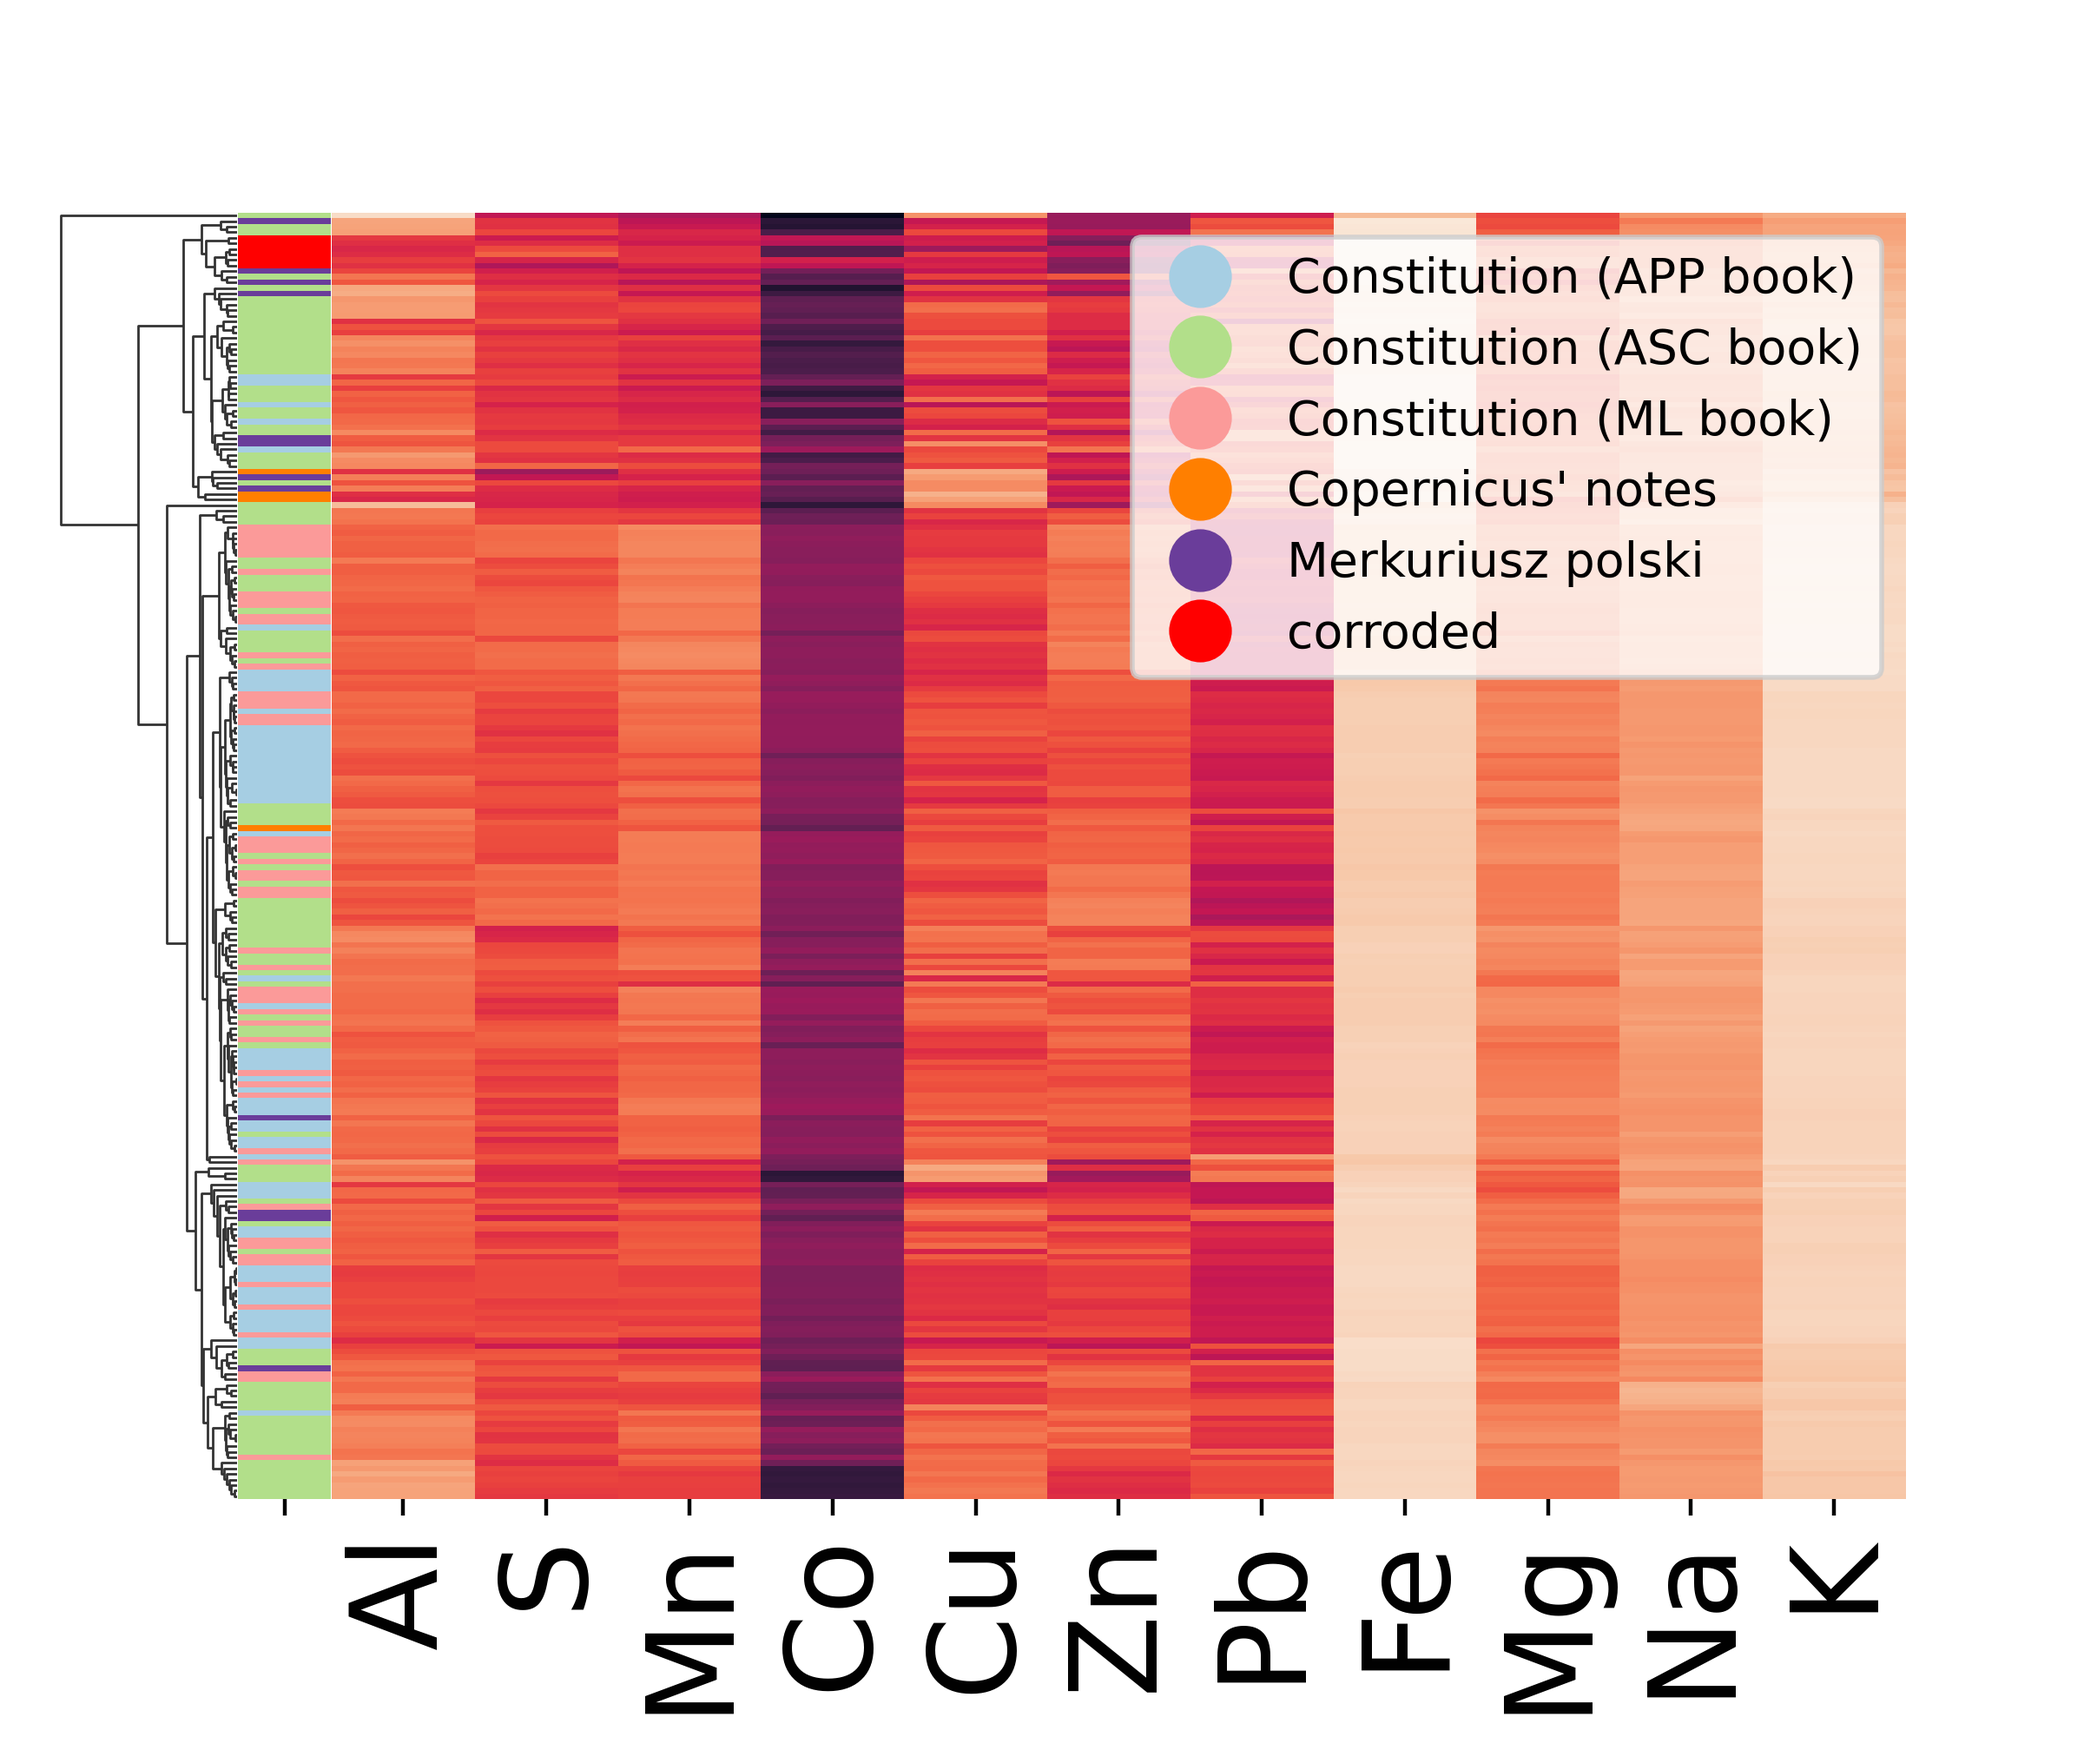
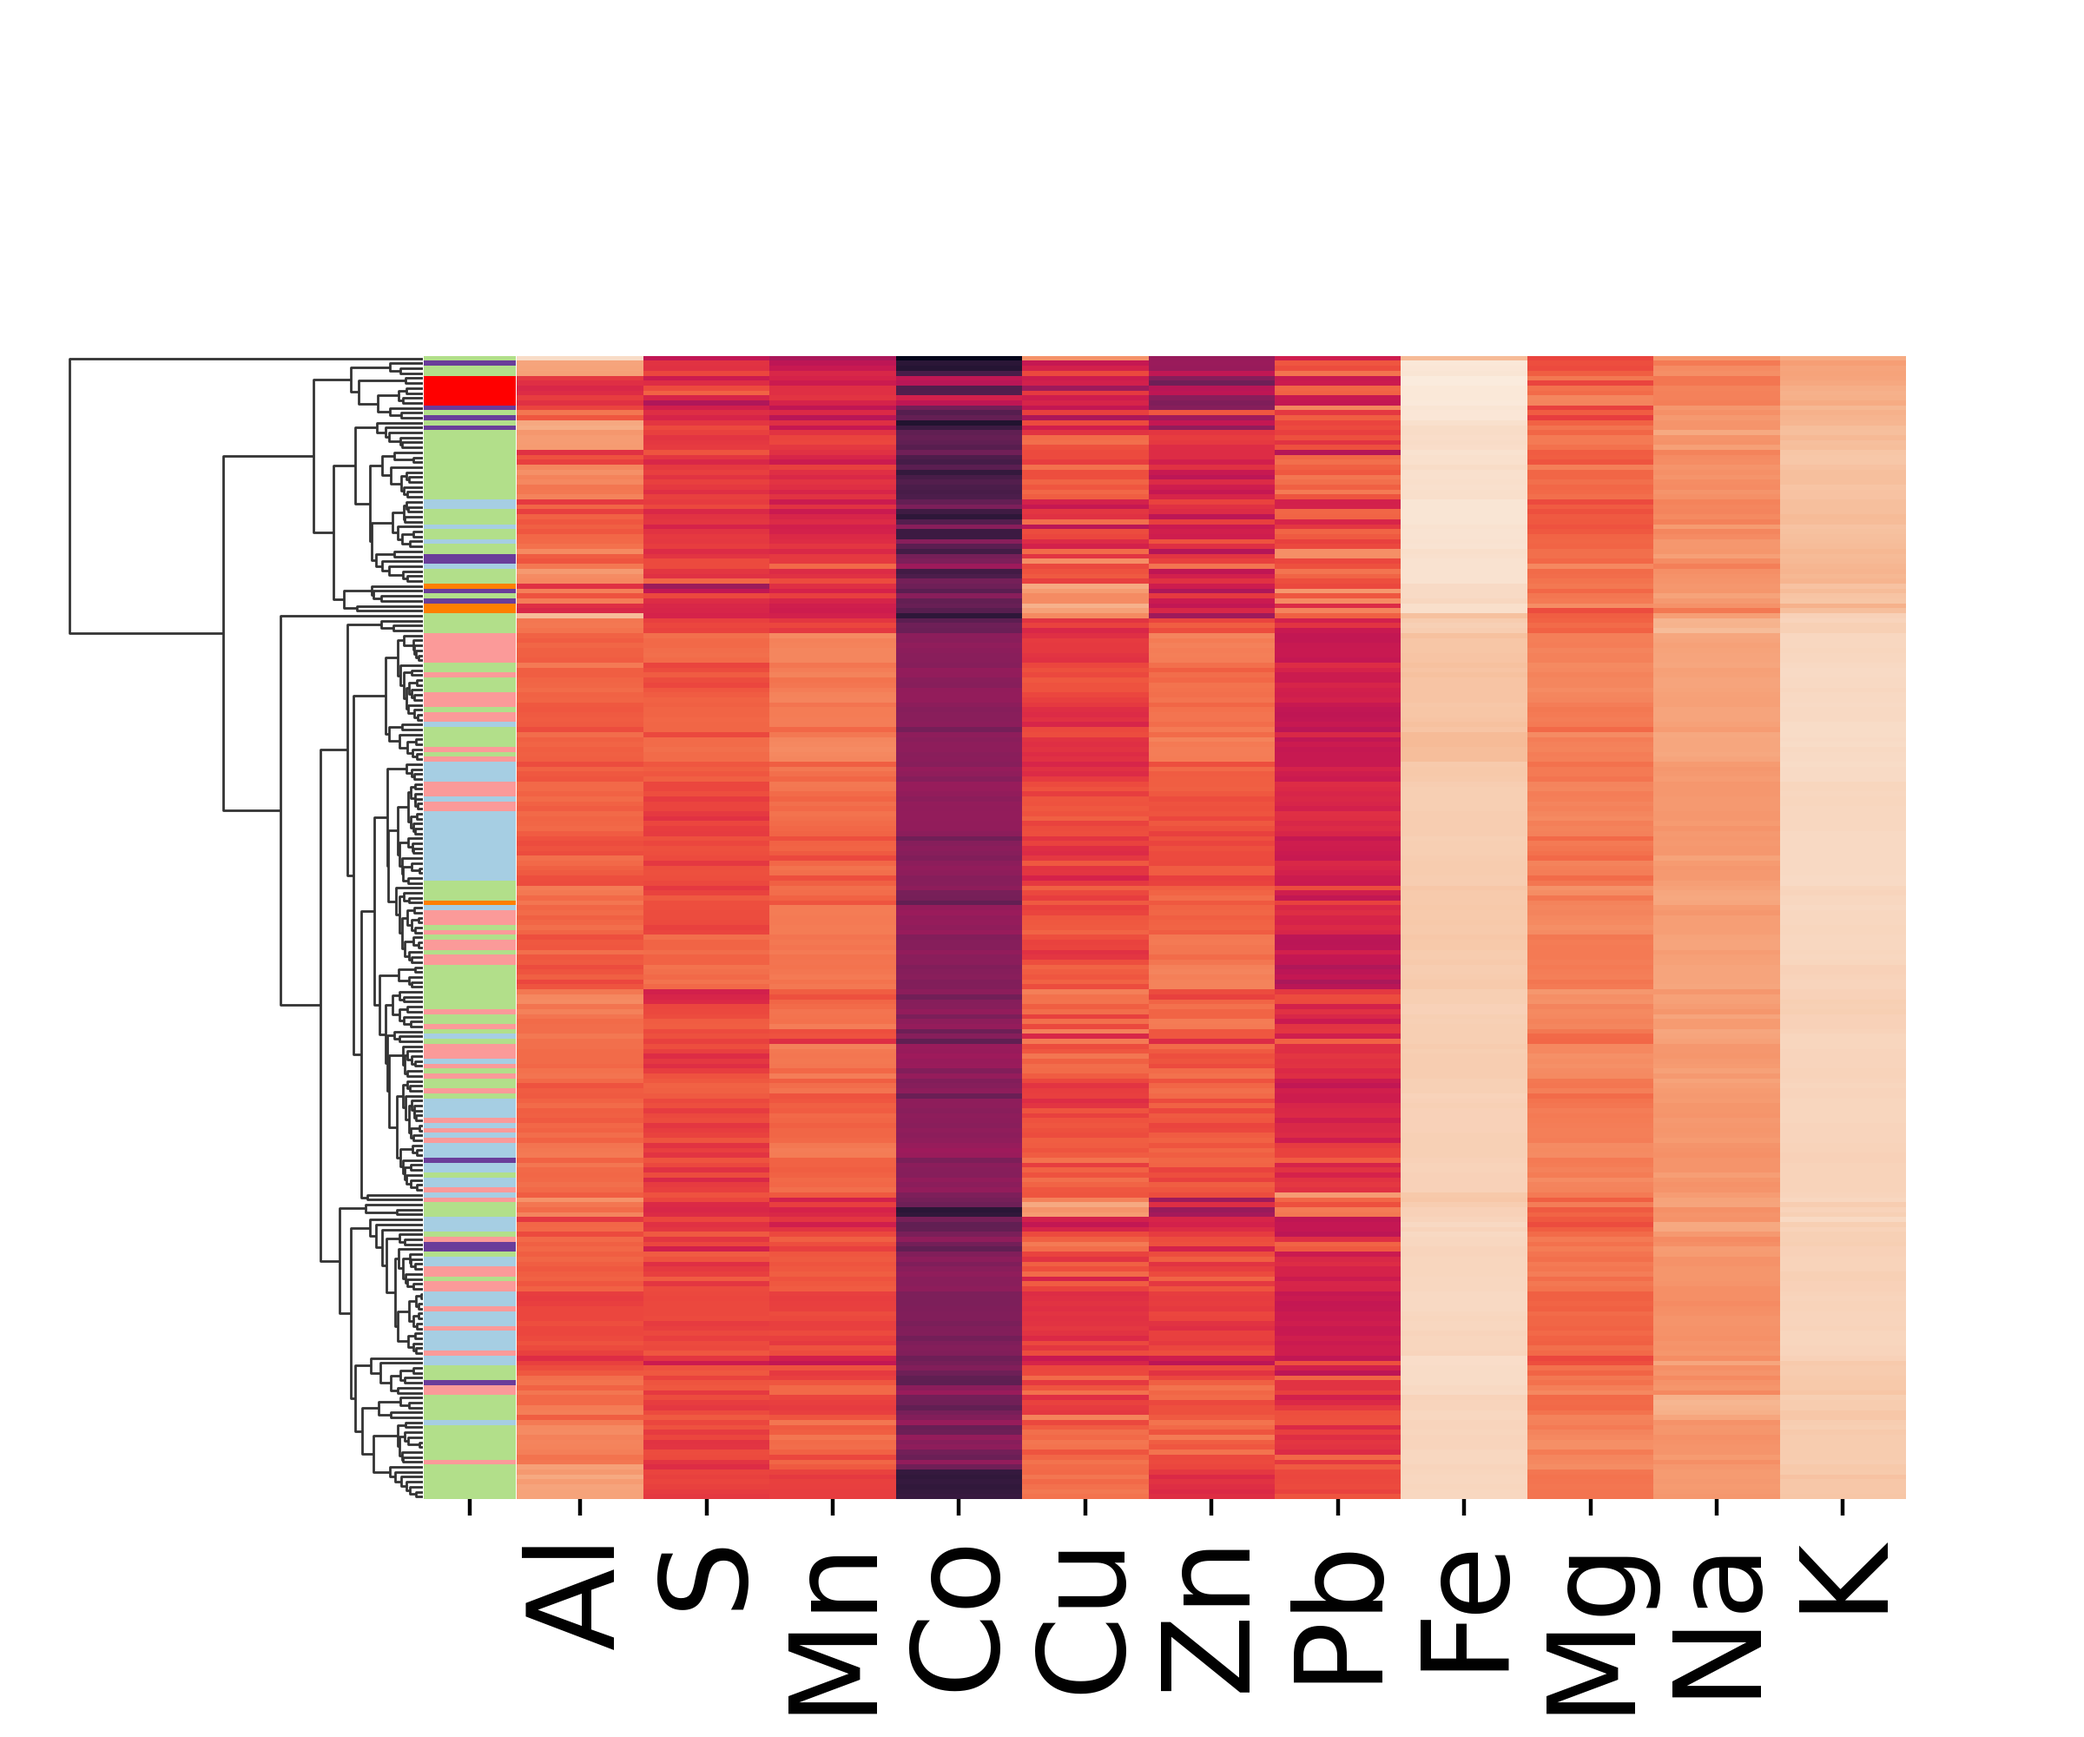
Widened tree on clustered heatmap figure

diff --git a/src/data_utils.py b/src/data_utils.py
@@ -769,7 +769,7 @@ def join_datasets_into_one(
 
     return df, y_true
 
-def visualise_clustering_on_heatmap(X, y, elements_to_keep, colormap=cm.tab20, figsize=(6,5), show_classes_names=False, show_legend=False, row_cluster=True, col_cluster=True, figures_path=None):
+def visualise_clustering_on_heatmap(X, y, elements_to_keep, colormap=cm.tab20, figsize=(6,5), dendrogram_ratio=0.1, show_classes_names=False, show_legend=False, row_cluster=True, col_cluster=True, figures_path=None):
 
     y_true = pd.Series(y)
     y_true = y_true.rename('          ')
@@ -794,7 +794,7 @@ def visualise_clustering_on_heatmap(X, y, elements_to_keep, colormap=cm.tab20, f
         row_cluster=row_cluster,
         col_cluster=col_cluster,
         row_colors=row_colors,
-        dendrogram_ratio=0.1,
+        dendrogram_ratio=dendrogram_ratio,
         colors_ratio=0.05,
         figsize=figsize,
         norm=LogNorm(),

diff --git a/analysis/6_prediction_visualisations.py b/analysis/6_prediction_visualisations.py
@@ -184,7 +184,7 @@ y_true = truncate_names(y_true)
 y_true = translate_names(y_true, OFFICIAL_NAMES_DICT)
 X = np.array(df.values)
 
-visualise_clustering_on_heatmap(X, y_true.values, ELEMENTS_TO_KEEP_NO_FE if NORMALISATION_TO_FE else ELEMENTS_TO_KEEP, colormap=cm.Paired, col_cluster=False, show_legend=True, figures_path=FIGURES_PATH)
+visualise_clustering_on_heatmap(X, y_true.values, ELEMENTS_TO_KEEP_NO_FE if NORMALISATION_TO_FE else ELEMENTS_TO_KEEP, colormap=cm.Paired, dendrogram_ratio=0.2, col_cluster=False, show_legend=False, figures_path=FIGURES_PATH)
 
 # PCA plot
 
